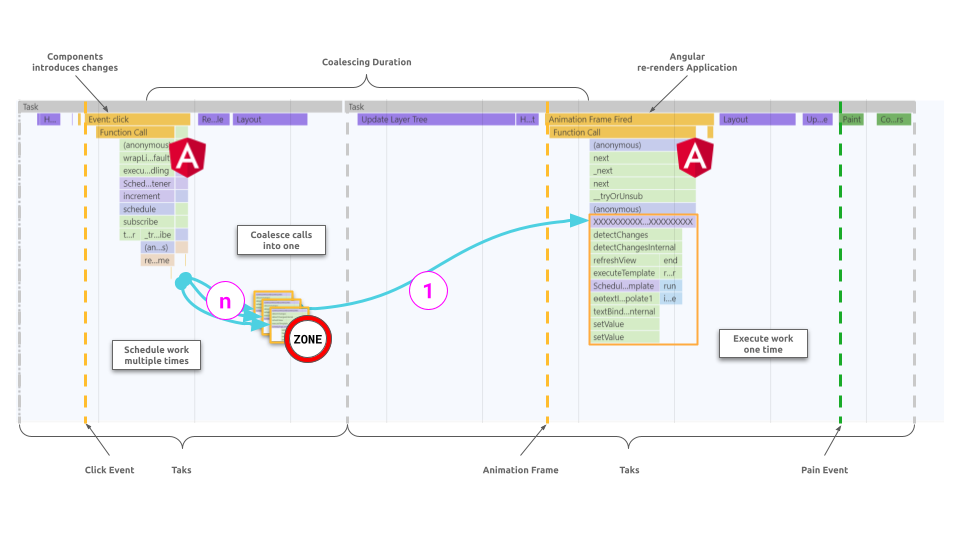
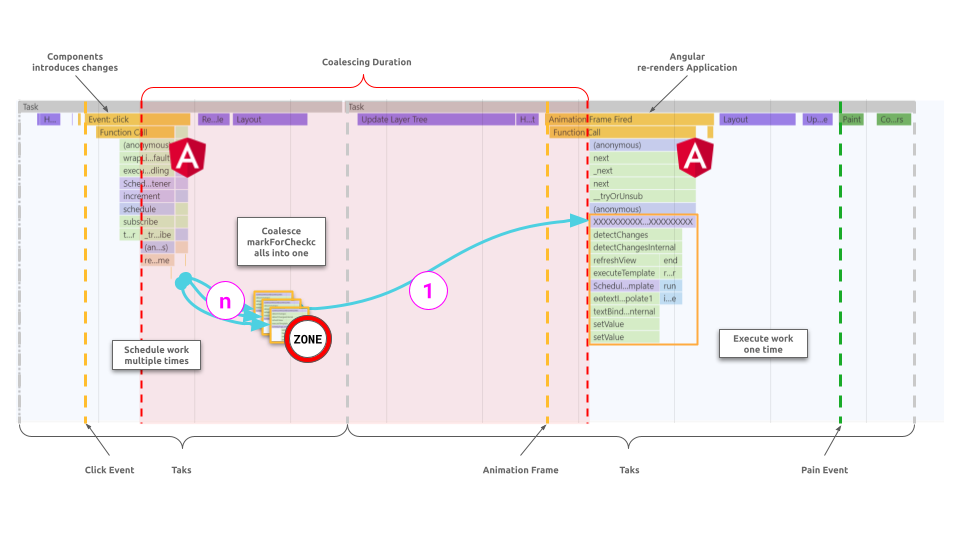
feat(coalescing): add images and update docs

Changed region(s): [[0.2188, 0.3852, 0.3438, 0.5037], [0.375, 0.1481, 0.4062, 0.1778]]

diff --git a/libs/cdk/coalescing/spec/coalesceWith.spec.ts b/libs/cdk/coalescing/spec/coalesceWith.spec.ts
@@ -1,10 +1,17 @@
 import { TestScheduler } from 'rxjs/internal/testing/TestScheduler';
-import { mergeMapTo, share, tap } from 'rxjs/operators';
-import { asapScheduler, concat, defer, from, Observable, of, timer } from 'rxjs';
+import { mergeMapTo, share } from 'rxjs/operators';
+import {
+  asapScheduler,
+  concat,
+  defer,
+  from,
+  Observable,
+  of,
+  timer,
+} from 'rxjs';
 // tslint:disable-next-line:nx-enforce-module-boundaries
 import { jestMatcher, mockConsole } from '@test-helpers';
-import { coalesceWith } from '../../../src/lib/render-strategies/rxjs/operators/coalesceWith';
-
+import { coalesceWith } from '../src/lib/coalesceWith';
 
 /** @test {coalesceWith} */
 describe('coalesce operator additional logic', () => {
@@ -34,10 +41,10 @@ describe('coalesce operator additional logic', () => {
   it('should emit last value if source completes before durationSelector', () => {
     testScheduler.run(({ cold, expectObservable, expectSubscriptions }) => {
       const s1 = cold('---abcdef---|');
-      const s1Subs =  '^-----------!';
+      const s1Subs = '^-----------!';
       const n1 = cold('   ----------');
       const n1Subs = ['---^--------!'];
-      const exp =     '------------(f|)';
+      const exp = '------------(f|)';
 
       const result = s1.pipe(coalesceWith(n1));
       expectObservable(result).toBe(exp);
@@ -106,14 +113,14 @@ describe('coalesce operator additional logic', () => {
     it('should emit coalesce sync values', () => {
       // Test case inspired by https://github.com/cartant/rxjs-etc/blob/main/source/operators/debounceSync-spec.ts
       testScheduler.run(({ cold, expectObservable, expectSubscriptions }) => {
-        const durationSelector = new Observable(subscriber => {
+        const durationSelector = new Observable((subscriber) => {
           asapScheduler.schedule(() => {
             subscriber.next();
           });
         });
-        const source = cold("   (ab)-(cd)---(ef)----|");
-        const sourceSubs = "      ^-------------------!";
-        const expected = " b----d------f-------|";
+        const source = cold('   (ab)-(cd)---(ef)----|');
+        const sourceSubs = '      ^-------------------!';
+        const expected = ' b----d------f-------|';
 
         const result = source.pipe(coalesceWith(durationSelector));
         expectObservable(result).toBe(expected);
@@ -184,11 +191,9 @@ describe('coalesce operator additional logic', () => {
     it('should emit per subscriber by default sync', () => {
       testScheduler.run(({ cold, expectObservable, expectSubscriptions }) => {
         const s1 = cold('--(abcdef)--|');
-        const s1Subs = ['^-----------!',
-          '^-----------!'];
+        const s1Subs = ['^-----------!', '^-----------!'];
         const n1 = cold('(|)   ');
-        const n1Subs = ['--(^!)   ',
-          '--(^!)   '];
+        const n1Subs = ['--(^!)   ', '--(^!)   '];
         const exp1 = '--(f)-------|';
         const exp2 = '--(f)-------|';
 
@@ -237,6 +242,31 @@ describe('coalesce operator additional logic', () => {
       });
     });
 
+    it('should emit once per micro task with default durationSelector', (done) => {
+      const scope = {};
+      const arrNum = [1, 2, 3, 4];
+      const num$ = from(arrNum).pipe(
+        share(),
+        coalesceWith(
+          defer(() => from(Promise.resolve())),
+          scope
+        )
+      );
+
+      num$.subscribe(
+        (x: number) => {
+          expect(x).toBe(4);
+          done();
+        },
+        () => {
+          throw new Error('should not be called');
+        },
+        () => {
+          throw new Error('should not be called');
+        }
+      );
+    });
+
     describe('with different durationSelector', () => {
       it('should emit once per micro task (THEORY)', () => {
         let syncEmission1: any;
@@ -268,11 +298,17 @@ describe('coalesce operator additional logic', () => {
             const arrAlph = ['a', 'b', 'c', 'd'];
             const num$ = from(arrNum).pipe(
               share(),
-              coalesceWith(defer(() => from([1])), scope)
+              coalesceWith(
+                defer(() => from([1])),
+                scope
+              )
             );
             const alph$ = from(arrAlph).pipe(
               share(),
-              coalesceWith(defer(() => from([1])), scope)
+              coalesceWith(
+                defer(() => from([1])),
+                scope
+              )
             );
 
             expect(syncEmission1).not.toBeDefined();
@@ -355,7 +391,7 @@ describe('coalesce operator additional logic', () => {
   });
 
   describe('error handling', () => {
-    it('should forward errors', (() => {
+    it('should forward errors', () => {
       testScheduler.run(({ cold, expectObservable, expectSubscriptions }) => {
         const s1 = cold('---a--#------');
         const s1Subs = '^-----!      ';
@@ -368,6 +404,6 @@ describe('coalesce operator additional logic', () => {
         expectSubscriptions(s1.subscriptions).toBe(s1Subs);
         expectSubscriptions(n1.subscriptions).toBe(n1Subs);
       });
-    }));
+    });
   });
 });

diff --git a/libs/cdk/coalescing/src/lib/coalesceWith.ts b/libs/cdk/coalescing/src/lib/coalesceWith.ts
@@ -12,8 +12,8 @@ import { coalescingManager } from './coalescingManager';
  * @description
  * Limits the number of synchronous emitted a value from the source Observable to
  * one emitted value per
- *   [`AnimationFrame`](https://developer.mozilla.org/en-US/docs/Web/API/Window/requestAnimationFrame), then repeats
- *   this process for every tick of the browsers event loop.
+ *   durationSelector e.g. [`AnimationFrame`](https://developer.mozilla.org/en-US/docs/Web/API/Window/requestAnimationFrame), then repeats
+ * this process for every tick of the browsers event loop.
  *
  * The coalesce operator is based on the [throttle](https://rxjs-dev.firebaseapp.com/api/operators/throttle) operator.
  * In addition to that is provides emitted values for the trailing end only, as well as maintaining a context to scope

diff --git a/libs/cdk/coalescing/docs/Readme.md b/libs/cdk/coalescing/docs/Readme.md
@@ -1,9 +1,16 @@
-# Coalescing
+# Resources
 
-Coalescing in general means, bring togeather multiple things into one. This can be anything starting from values to whole systems.
-In RxAngular coalescing always referes to any sort of emissions or calls that will merge into one. The logic is implemented as RxJS operators and used to improve the change detection mechanism of Angular.
+**Example applications:**  
+A demo application is available on [GitHub](https://github.com/BioPhoton/rx-angular-cdk-coalescing).
 
-Before we dive into the usage we may want to understand already existing coalescing mechanisms in Angular.
+# Motivation
+
+![Angular - Coalescing re-render caused by `markForCheck` diagram]()
+
+Coalescing in general means, bring together multiple things into one. This can be anything starting from values to whole systems.
+In RxAngular coalescing always refers to any sort of emissions or calls that will merge into one. The logic is implemented as RxJS operators and used to improve the change detection mechanism of Angular.
+
+Before we dive into the usage we may want to understand already existing coalescing mechanisms in Angular and why it is used to get better performance.
 
 There are 2 places in Angular we have coalescing already implemented in the framework:
 
@@ -12,7 +19,7 @@ There are 2 places in Angular we have coalescing already implemented in the fram
 
 ## Coalescing of `ApplicationRef#tick` calls
 
-As chances are high multiple changes occour at the same time Angular's change detection would end up getting triggered also multiple times.
+As chances are high multiple changes occur at the same time Angular's change detection would end up getting triggered also multiple times.
 This is the reason why Angular implemented coalescing for those calls.
 
 In the following image we see 3 changes that call `ChangeDetectorRef#markForCheck`.
@@ -34,10 +41,76 @@ With that information we should be able to reflect this concept also onto other 
 
 # RxAngular Coalescing operators
 
-As detectChanges has no coalescing of render calls like ChangeDetectorRef#markForCheck or ɵmarkDirty have, we apply our own coalescing, 'scoped' oncomponent level.
+While developing RxAngular one of the first things we had to tackle for performant change detection, was coalescing of `ChangeDetectorRef#detectChanges` calls on component level,
+but in fact the shipped logic can be applied anywhere.
 
-Coalescing, in this very manner, means collecting all events in the same EventLoop tick, that would cause a re-render. Then execute re-rendering only once.
+There are 2 main pieces to understand:
 
-'Scoped' coalescing, in addition, means grouping the collected events by a specific context. E. g. the component from which the re-rendering was initiated.
+- the coalescing mechanism
+- the scoping mechanism
 
-This context could be the Component instance or a ViewContextRef, both accessed over the context over ChangeDetectorRef#context.
+In the section usage we gill go into more detail.
+
+## Setup
+
+The coalescing features can be used directly from the `cdk` package or indirectly through the `template` package.
+To do so install the the cdk package and if needed the packages depending on it.
+
+1. Install `@rx-angular/cdk`
+
+```bash
+npm i @rx-angular/cdk
+// or
+yarn add @rx-angular/cdk
+```
+
+## Usage
+
+As coalescing was already explained in the Angular context we can take that one step forther and look at it in a more agnostic way.
+
+Imagine the following code snippet which executes heavy computation:
+
+```typescript
+function doStuff(value) {
+  console.log('heavy computation', value);
+}
+```
+
+If we would call it mutiple times we would cause 3 times the computation.
+
+```typescript
+from([1, 2, 3]).subscribe(doStuff); // 3 x doStuff
+```
+
+RxAngular's `coalesceWith` operator helps to merge together when applied to the source.
+
+```typescript
+from([1, 2, 3]).pipe(coalesceWith()).subscribe(doStuff); // 1 x doStuff
+```
+
+### Coalescing duration
+
+By default, the duration in which values get united is derived from a `Promise` which executes immediately after the synchronous code got executed.
+
+See the diagram for details:
+![coalesceWith - micro taks duration selector]()
+
+To have more fine-grained control over the duration of coalescing an optional parameter `durationSelector` is provided.
+`durationSelector` is of type `Observable<unknown>` and the first emission of it terminates the coalescing duration.
+
+You could pass e.g. `timer(0, 0)` as `durationSelector` to use a `setInterval` as duration period.
+
+See the diagram for details:
+![coalesceWith - macro taks duration selector]()
+
+Even a longer duration based on milliseconds e.g. `timer(0, 500)` can be used as duration.
+
+See the diagram for details:
+![coalesceWith - 500ms duration selector]()
+
+For more information on the different scheduling options you could have a look at the different scheduling API's like
+`queueMicroTask`, `requestAnimationFrame`, `setTimeout`, `postMessage` or `requestIdleCallback`.
+
+### Coalescing scope
+
+@TODO
